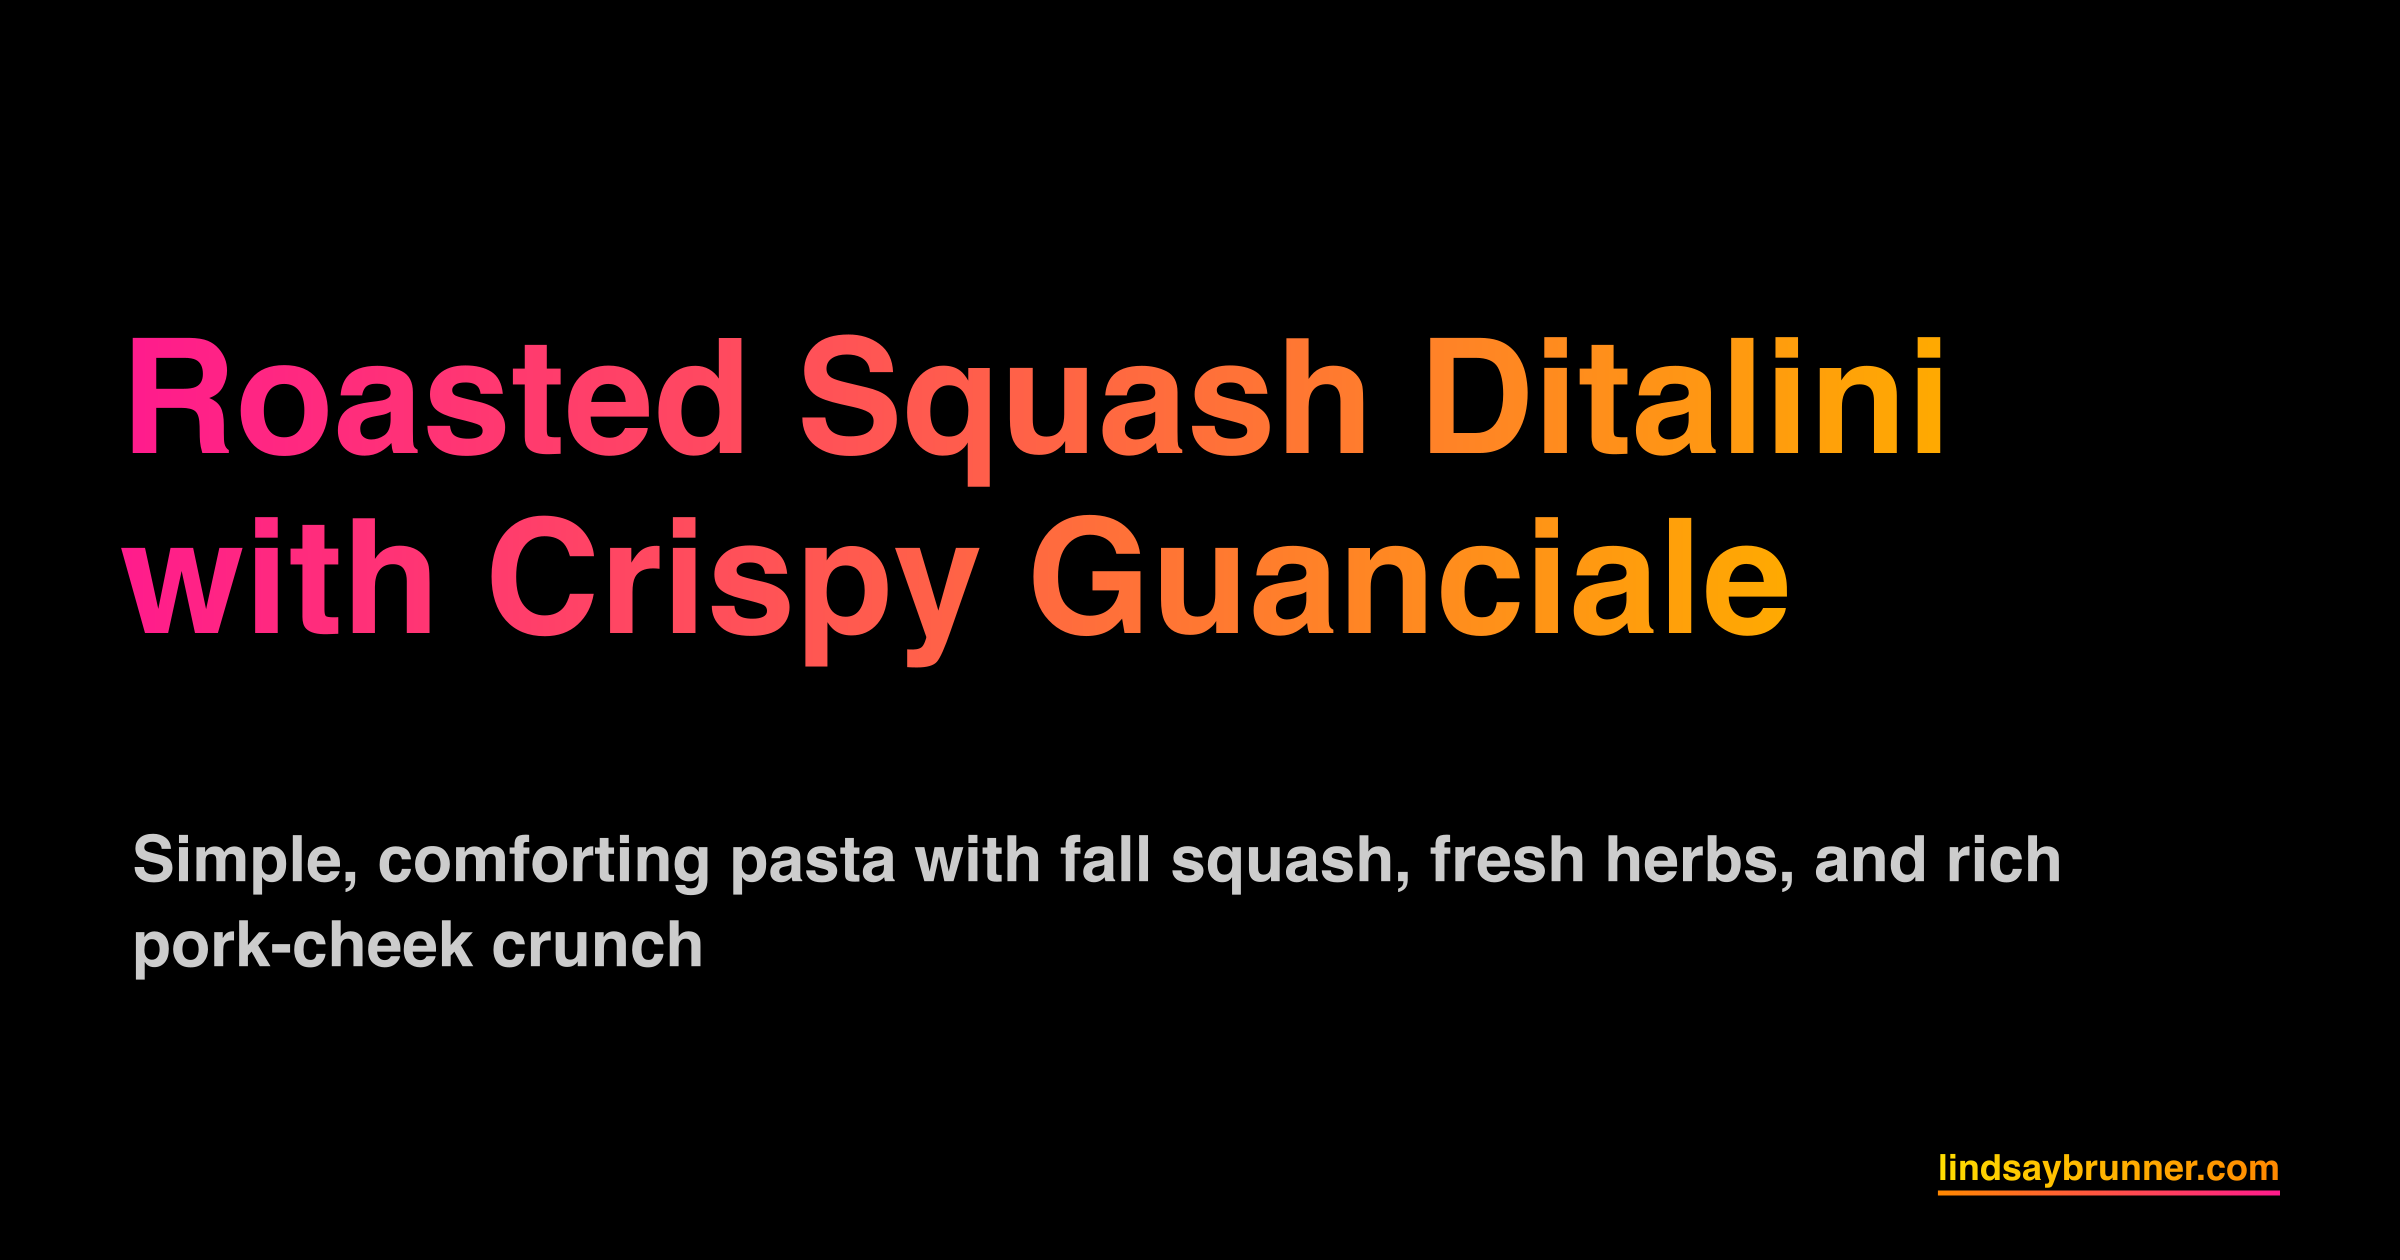
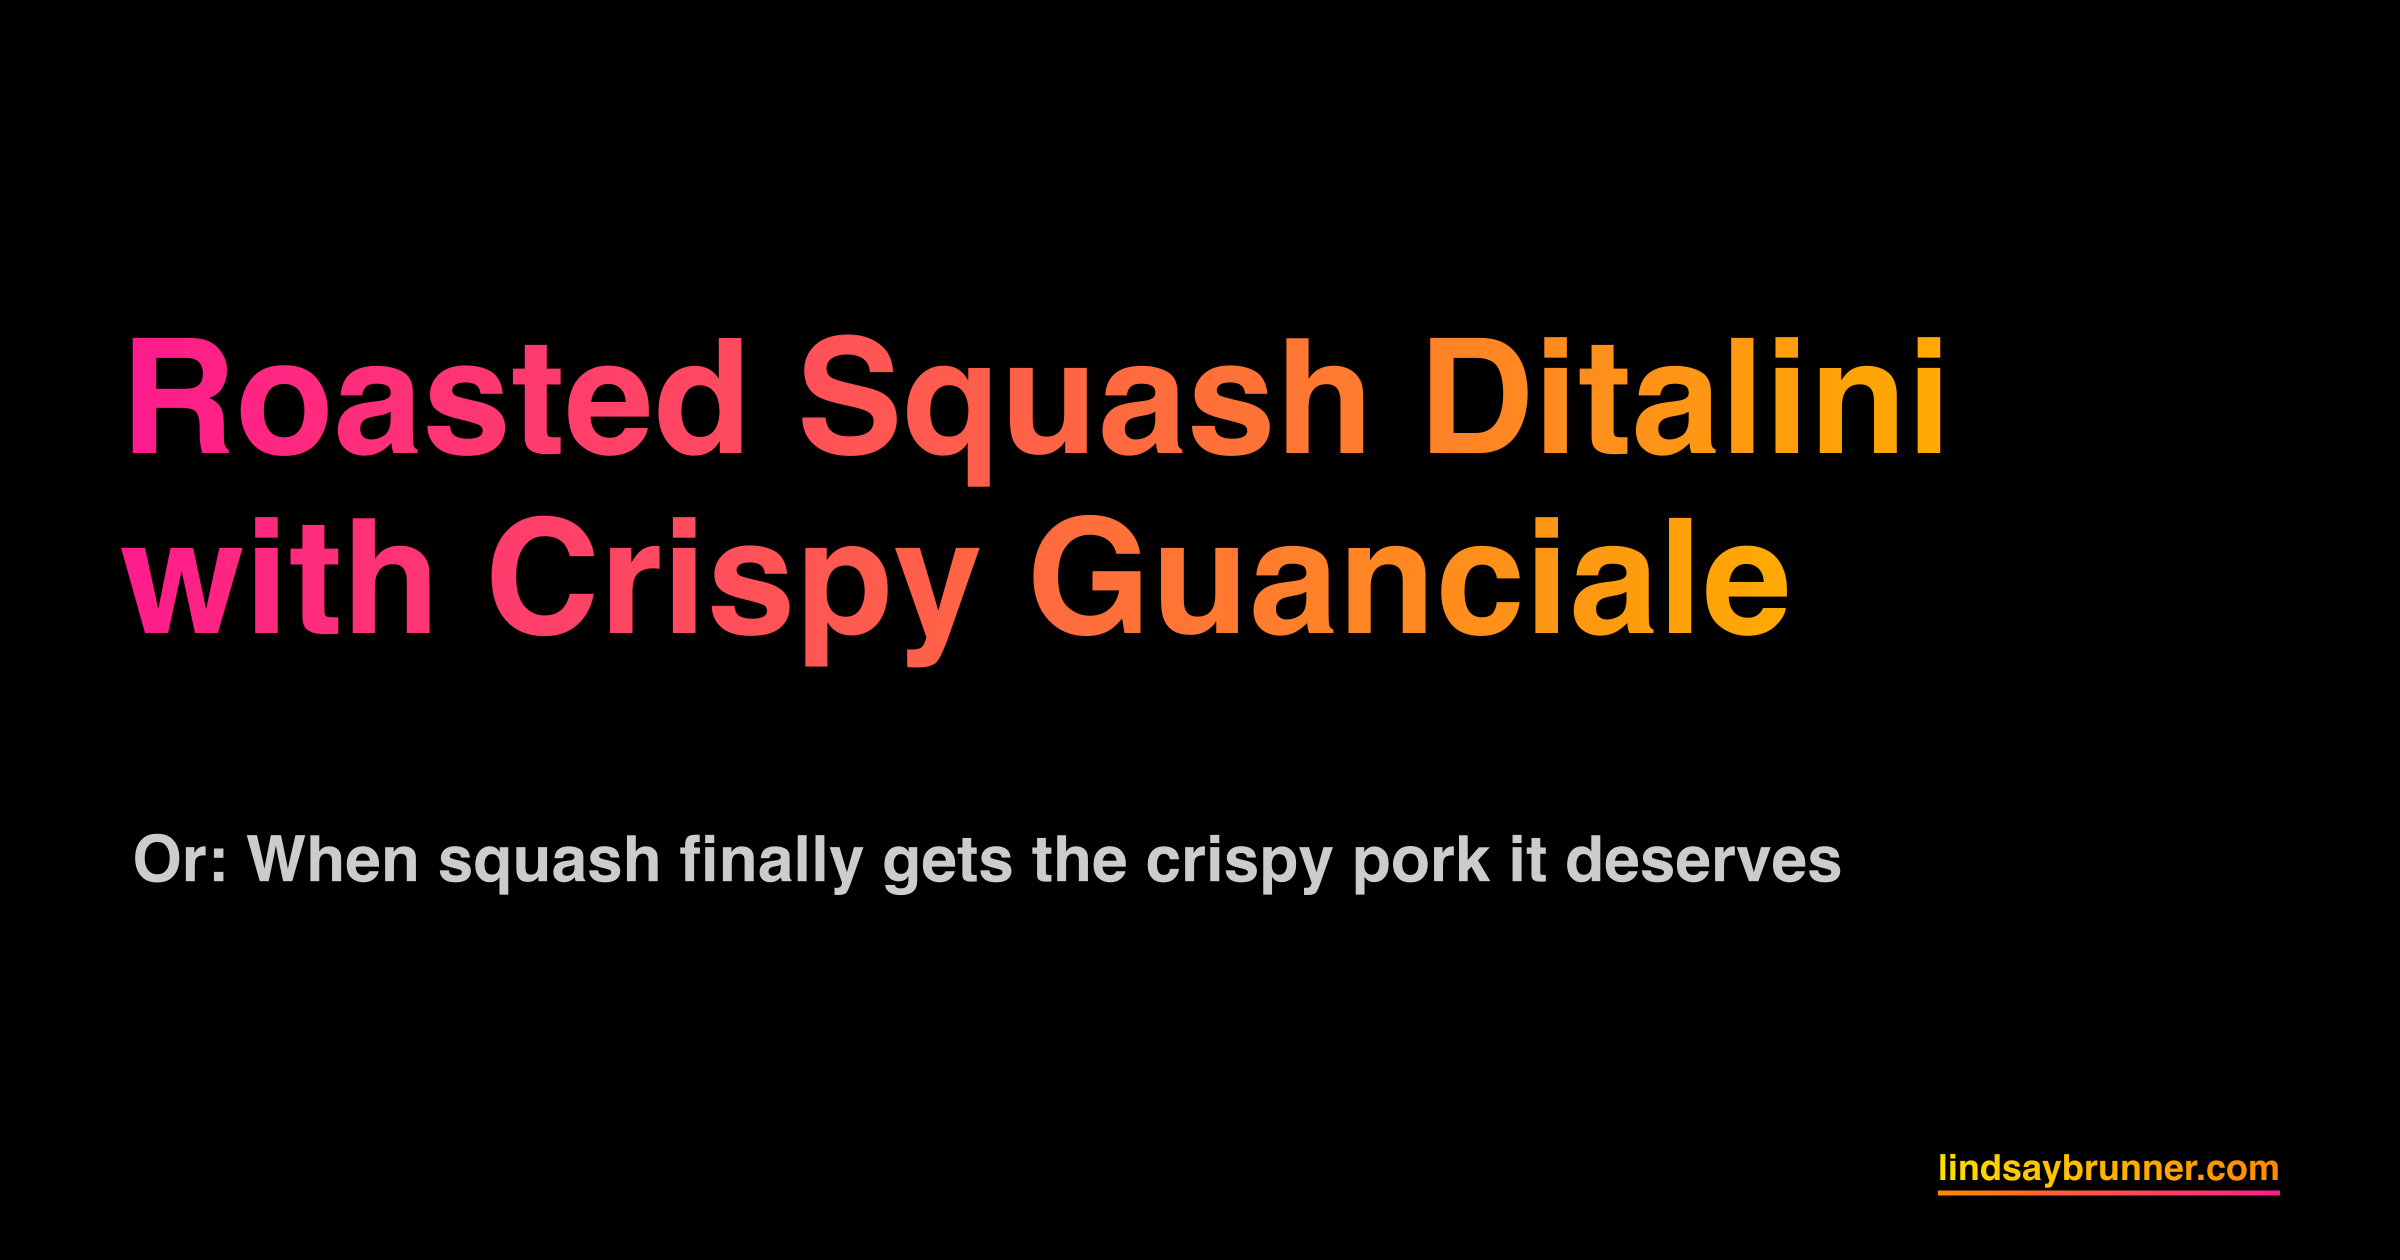
Update squash recipe subtitle to witty Or: format

Changed region(s): [[0.0312, 0.65, 0.875, 0.7738]]

diff --git a/content/recipes/recipe-roasted-squash-ditalini-crispy-guanciale.md b/content/recipes/recipe-roasted-squash-ditalini-crispy-guanciale.md
@@ -2,7 +2,7 @@
 title: "Roasted Squash Ditalini with Crispy Guanciale"
 date: 2025-11-26
 slug: "recipe-roasted-squash-ditalini-crispy-guanciale"
-subtitle: "Simple, comforting pasta with fall squash, fresh herbs, and rich pork-cheek crunch"
+subtitle: "Or: When squash finally gets the crispy pork it deserves"
 description: "Simple, comforting pasta with fall squash, fresh herbs, and rich pork-cheek crunch. Sheet pan roasted squash, crispy guanciale, and a creamy ricotta sauce."
 draft: false
 social_image: "/images/social/recipe-roasted-squash-ditalini-crispy-guanciale-og.png"
